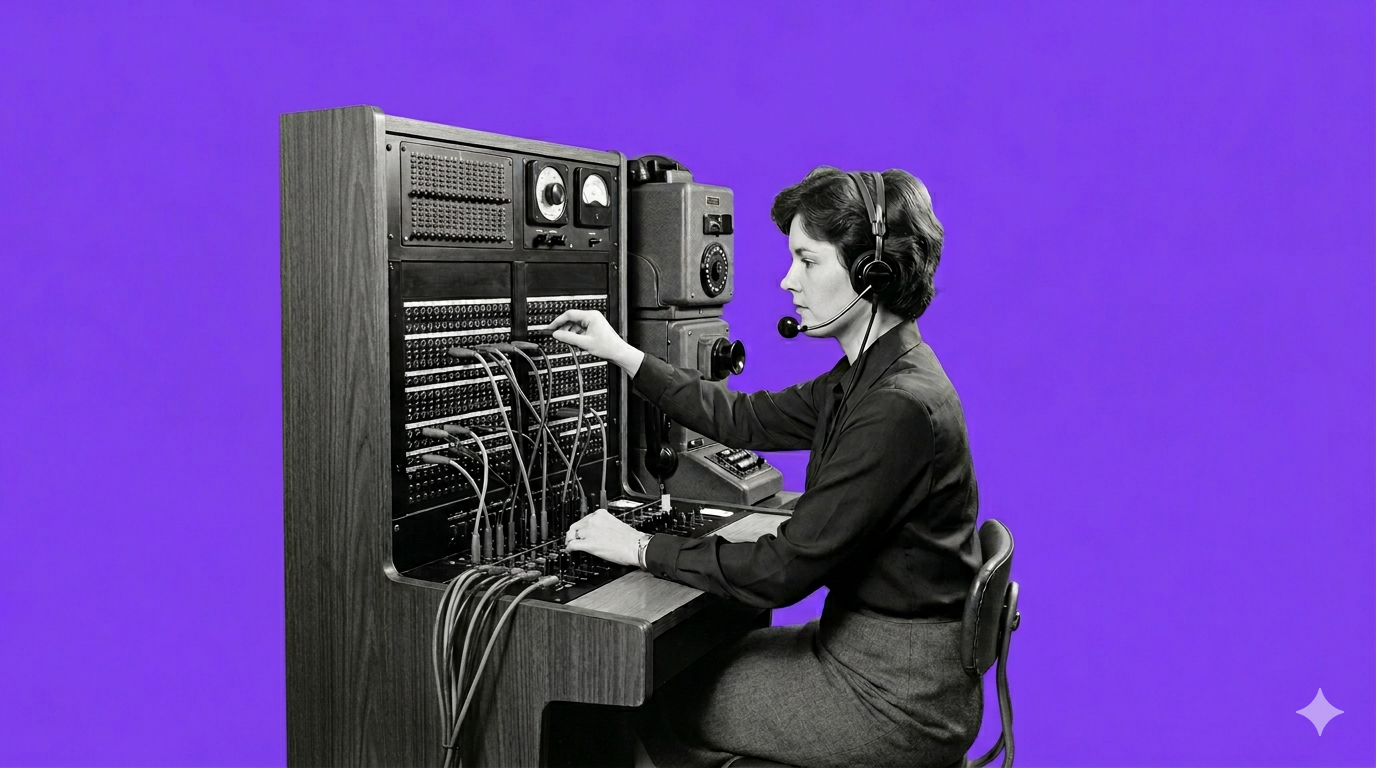
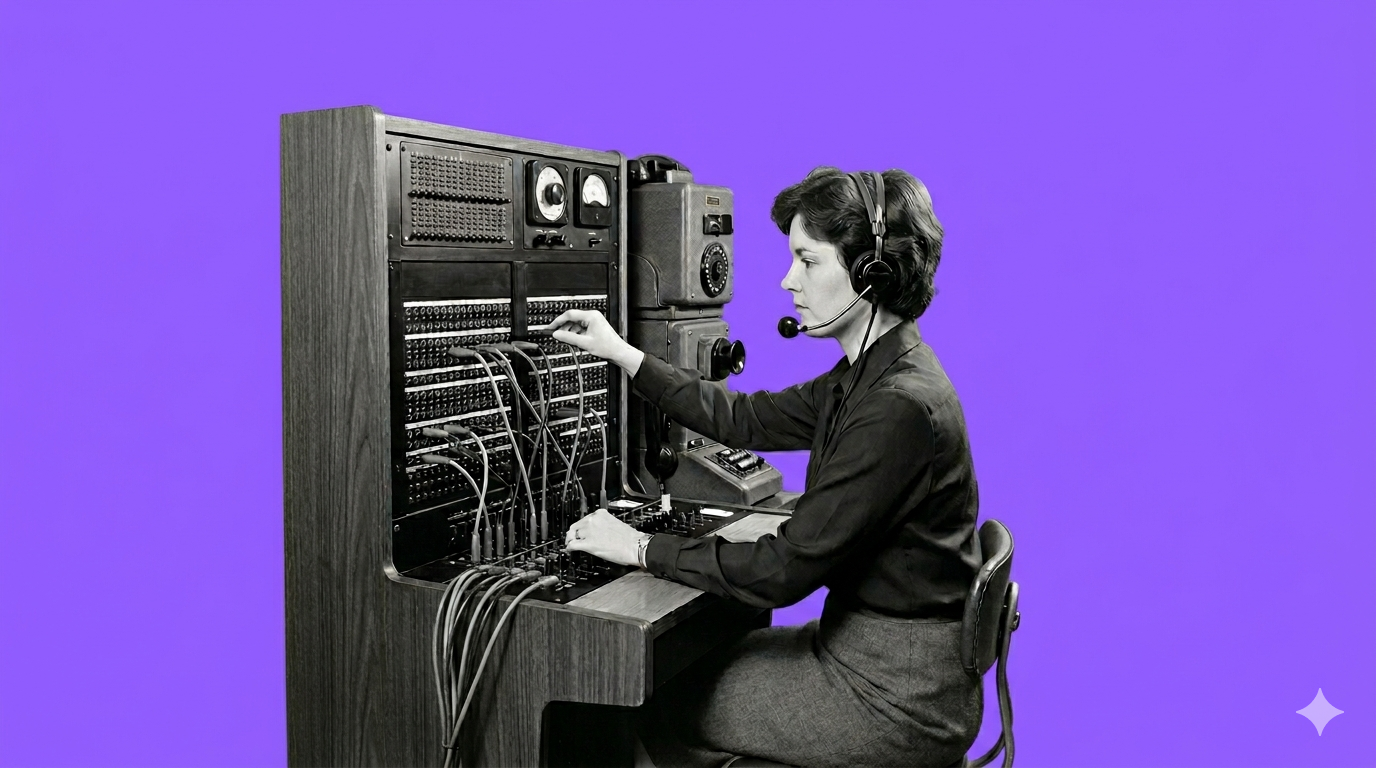
style: update hero image brand colour to #9660ff

diff --git a/.claude/commands/hero-image.md b/.claude/commands/hero-image.md
@@ -14,7 +14,7 @@ Generate a hero image prompt for a blog post.
 
 ---
 
-A 16:9 aspect ratio minimalist blog header image. The entire background is a completely solid, flat, vibrant medium-tone purple-violet with the exact hex color #8046E6. Centered perfectly on the canvas is a single, isolated [subject]. The subject is rendered in a clean, crisp, pure black and white photorealistic style with fine mechanical or structural details and realistic textures, completely free of any color or color casts. The subject is captured from a slight three-quarter overhead angle, sitting on an invisible surface with absolutely no drop shadows, reflections, or grounding lines beneath it, creating a floating effect. The composition is highly spacious, leaving generous, clean empty space above and to the sides for a blog title overlay. No human faces, no words, no text, and no numbers are visible anywhere on the subject.
+A 16:9 aspect ratio minimalist blog header image. The entire background is a completely solid, flat, vibrant medium-tone purple-violet with the exact hex color #9660ff. Centered perfectly on the canvas is a single, isolated [subject]. The subject is rendered in a clean, crisp, pure black and white photorealistic style with fine mechanical or structural details and realistic textures, completely free of any color or color casts. The subject is captured from a slight three-quarter overhead angle, sitting on an invisible surface with absolutely no drop shadows, reflections, or grounding lines beneath it, creating a floating effect. The composition is highly spacious, leaving generous, clean empty space above and to the sides for a blog title overlay. No human faces, no words, no text, and no numbers are visible anywhere on the subject.
 
 ---
 